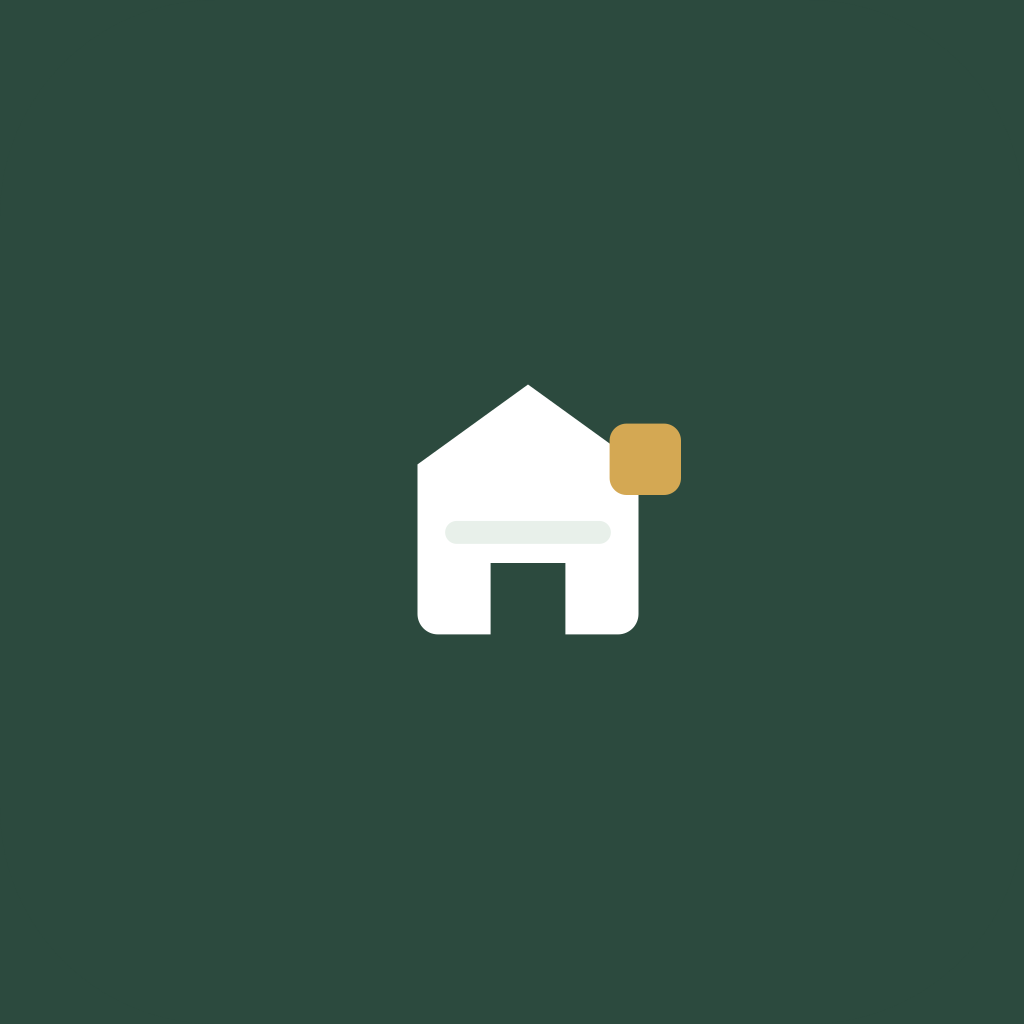
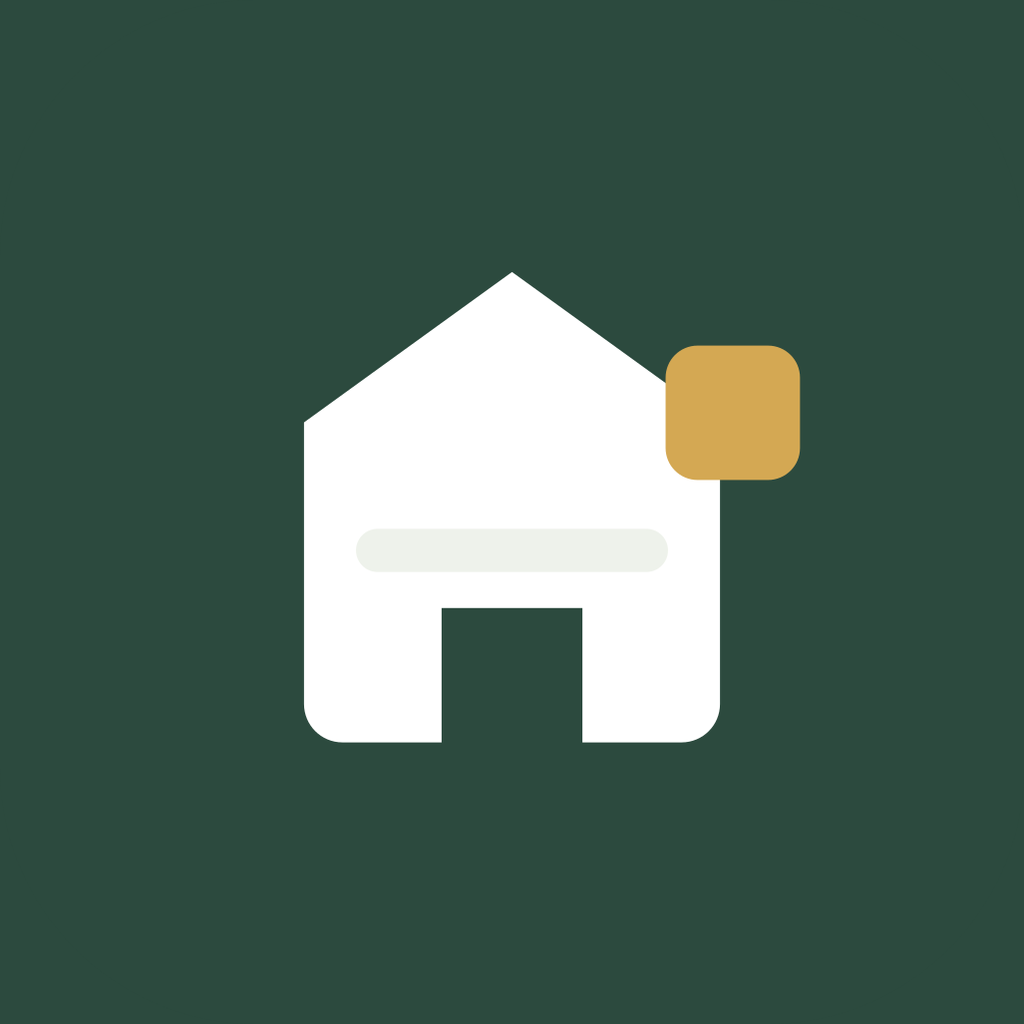
feat(mobile): store beta blockers for TestFlight/Play internal
Add iOS privacy strings, Android camera permission and PDF/image share
intent, Capacitor app-open telemetry, version sync to 0.0.1, and Skaffu
adaptive launcher icon for native shells.

Changed region(s): [[0.2812, 0.25, 0.7812, 0.75]]

diff --git a/src/lib/client/capacitor-telemetry.ts b/src/lib/client/capacitor-telemetry.ts
@@ -1,0 +1,19 @@
+import { trackProductEvent } from '$lib/client/product-events';
+import { capacitorTelemetrySource } from '$lib/utils/capacitor';
+
+const SESSION_KEY = 'skaffu_capacitor_app_opened';
+
+/** Once per browser session when running in Capacitor native shell. */
+export function trackCapacitorAppOpened(): void {
+	const source = capacitorTelemetrySource();
+	if (!source) {
+		return;
+	}
+	if (typeof sessionStorage !== 'undefined' && sessionStorage.getItem(SESSION_KEY)) {
+		return;
+	}
+	if (typeof sessionStorage !== 'undefined') {
+		sessionStorage.setItem(SESSION_KEY, '1');
+	}
+	void trackProductEvent('capacitor_app_opened', { source });
+}

diff --git a/src/lib/client/product-events.ts b/src/lib/client/product-events.ts
@@ -93,7 +93,8 @@ const CLIENT_EVENT_TYPES = [
 	'store_recommendation_completed',
 	'planer_viewed',
 	'ata_recipe_opened',
-	'ata_week_view_toggled'
+	'ata_week_view_toggled',
+	'capacitor_app_opened'
 ] as const;
 
 export const PUBLIC_ACQUISITION_EVENT_TYPES = [

diff --git a/src/routes/api/product-events/+server.ts b/src/routes/api/product-events/+server.ts
@@ -30,7 +30,8 @@ const PUBLIC_EVENT_TYPES = new Set<ProductEventType>([
 	'public_city_feed_signup_clicked',
 	'expiring_share_cta_clicked',
 	'list_link_opened',
-	'list_join_cta_clicked'
+	'list_join_cta_clicked',
+	'capacitor_app_opened'
 ]);
 
 const AUTH_EVENT_TYPES = new Set<ProductEventType>([

diff --git a/src/routes/+layout.svelte b/src/routes/+layout.svelte
@@ -10,6 +10,7 @@
 	import { pwaInfo } from 'virtual:pwa-info';
 	import { initPwaInstallListeners } from '$lib/utils/pwa';
 	import { initClientErrorReporting } from '$lib/client/error-reporting';
+	import { trackCapacitorAppOpened } from '$lib/client/capacitor-telemetry';
 	import { showClientToast } from '$lib/utils/client-toast.svelte';
 
 	let { children, data } = $props();
@@ -20,6 +21,7 @@
 		initScrollOnNavigate();
 		initPwaInstallListeners();
 		initClientErrorReporting();
+		trackCapacitorAppOpened();
 
 		if (!pwaInfo) {
 			return;

diff --git a/android/app/src/main/java/com/skaffu/app/MainActivity.java b/android/app/src/main/java/com/skaffu/app/MainActivity.java
@@ -1,5 +1,69 @@
 package com.skaffu.app;
 
+import android.content.Intent;
+import android.os.Bundle;
 import com.getcapacitor.BridgeActivity;
 
-public class MainActivity extends BridgeActivity {}
+/**
+ * Opens receipt import when user shares PDF/image from another app (Kivra, Files, …).
+ * WebView lands on /scan with share_target source — same entry as PWA share_target.
+ */
+public class MainActivity extends BridgeActivity {
+
+    private static final String SHARE_SCAN_PATH =
+        "/scan?mode=receipt&source=share_target";
+
+    private boolean pendingShareNavigation = false;
+
+    @Override
+    protected void onCreate(Bundle savedInstanceState) {
+        super.onCreate(savedInstanceState);
+        if (isShareIntent(getIntent())) {
+            pendingShareNavigation = true;
+        }
+    }
+
+    @Override
+    protected void onNewIntent(Intent intent) {
+        super.onNewIntent(intent);
+        setIntent(intent);
+        if (isShareIntent(intent)) {
+            pendingShareNavigation = true;
+            navigateToShareScan();
+        }
+    }
+
+    @Override
+    public void onStart() {
+        super.onStart();
+        navigateToShareScan();
+    }
+
+    private boolean isShareIntent(Intent intent) {
+        if (intent == null) {
+            return false;
+        }
+        if (!Intent.ACTION_SEND.equals(intent.getAction())) {
+            return false;
+        }
+        String type = intent.getType();
+        if (type == null) {
+            return false;
+        }
+        return "application/pdf".equals(type) || type.startsWith("image/");
+    }
+
+    private void navigateToShareScan() {
+        if (!pendingShareNavigation || getBridge() == null) {
+            return;
+        }
+        pendingShareNavigation = false;
+        getBridge()
+            .getWebView()
+            .post(() -> getBridge().getWebView().loadUrl(getServerBaseUrl() + SHARE_SCAN_PATH));
+    }
+
+    private String getServerBaseUrl() {
+        return "https://skaffu.com";
+    }
+}